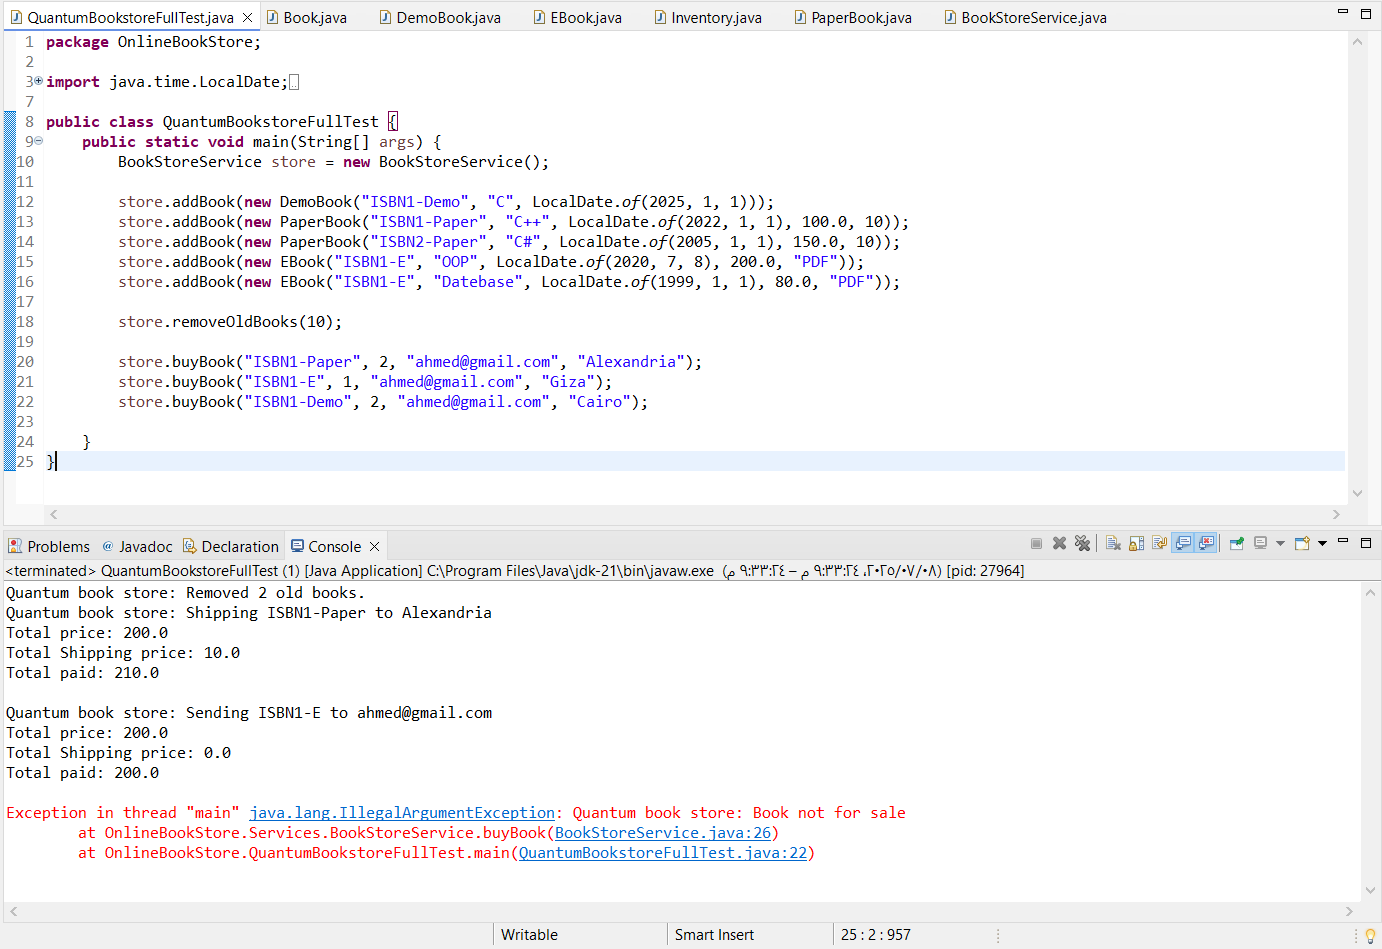
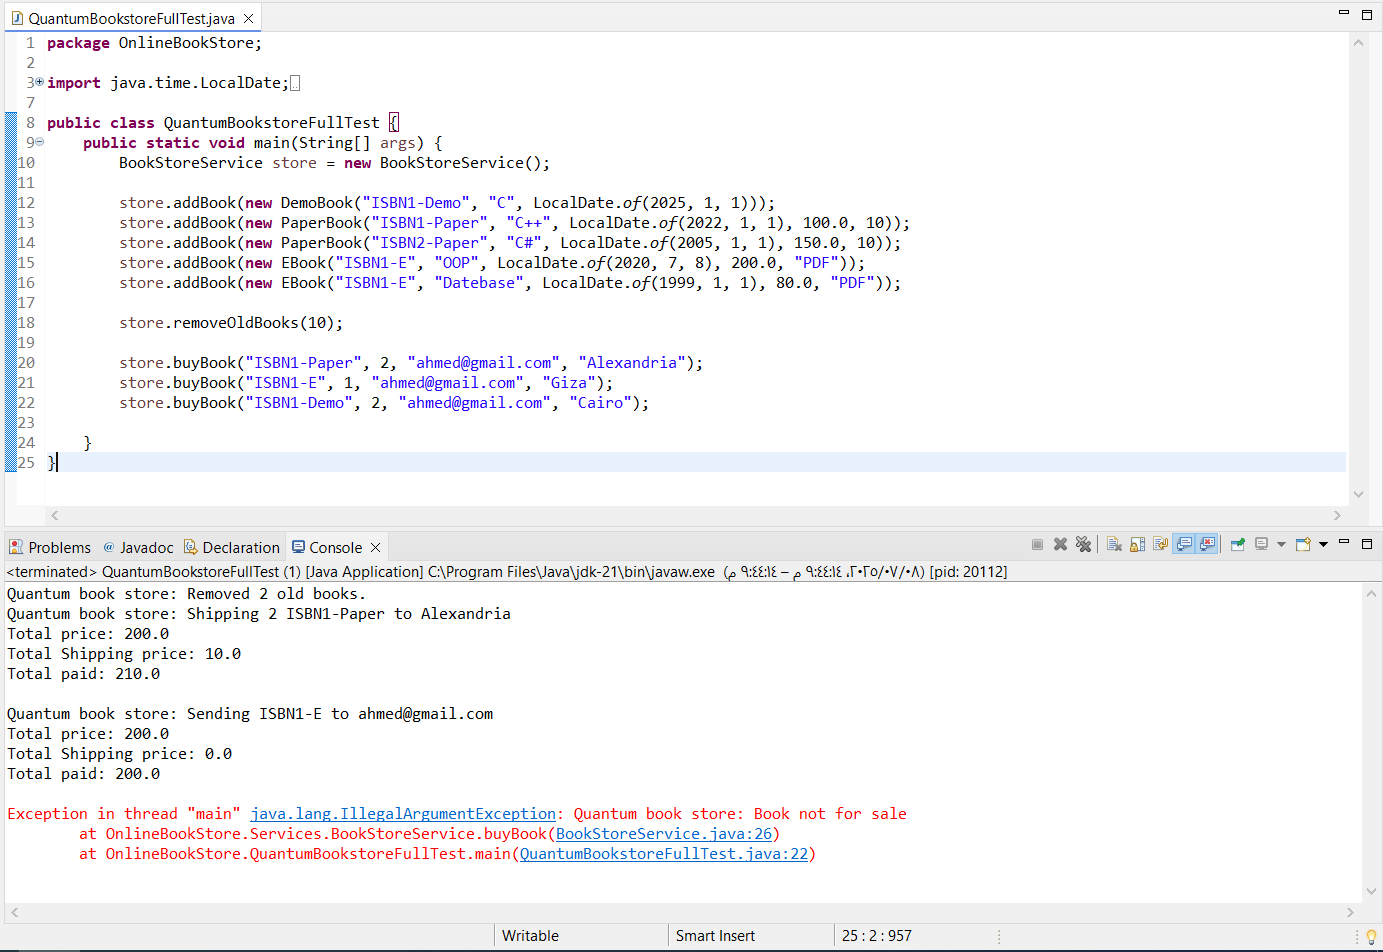
update files

diff --git a/src/OnlineBookStore/Services/BookStoreService.java b/src/OnlineBookStore/Services/BookStoreService.java
@@ -33,7 +33,7 @@ public class BookStoreService {
 		if (book instanceof Shippable) {
 			((Shippable) book).reduceQuantity(amount);
 			shipping = ((Shippable) book).getShippingPrice(book, amount);
-			System.out.println("Quantum book store: Shipping " + book.getISBN() + " to " + address);
+			System.out.println("Quantum book store: Shipping " + amount + " " + book.getISBN() + " to " + address);
 		} else if (book instanceof Sellable) {
 			System.out.println("Quantum book store: Sending " + book.getISBN() + " to " + email);
 		}
